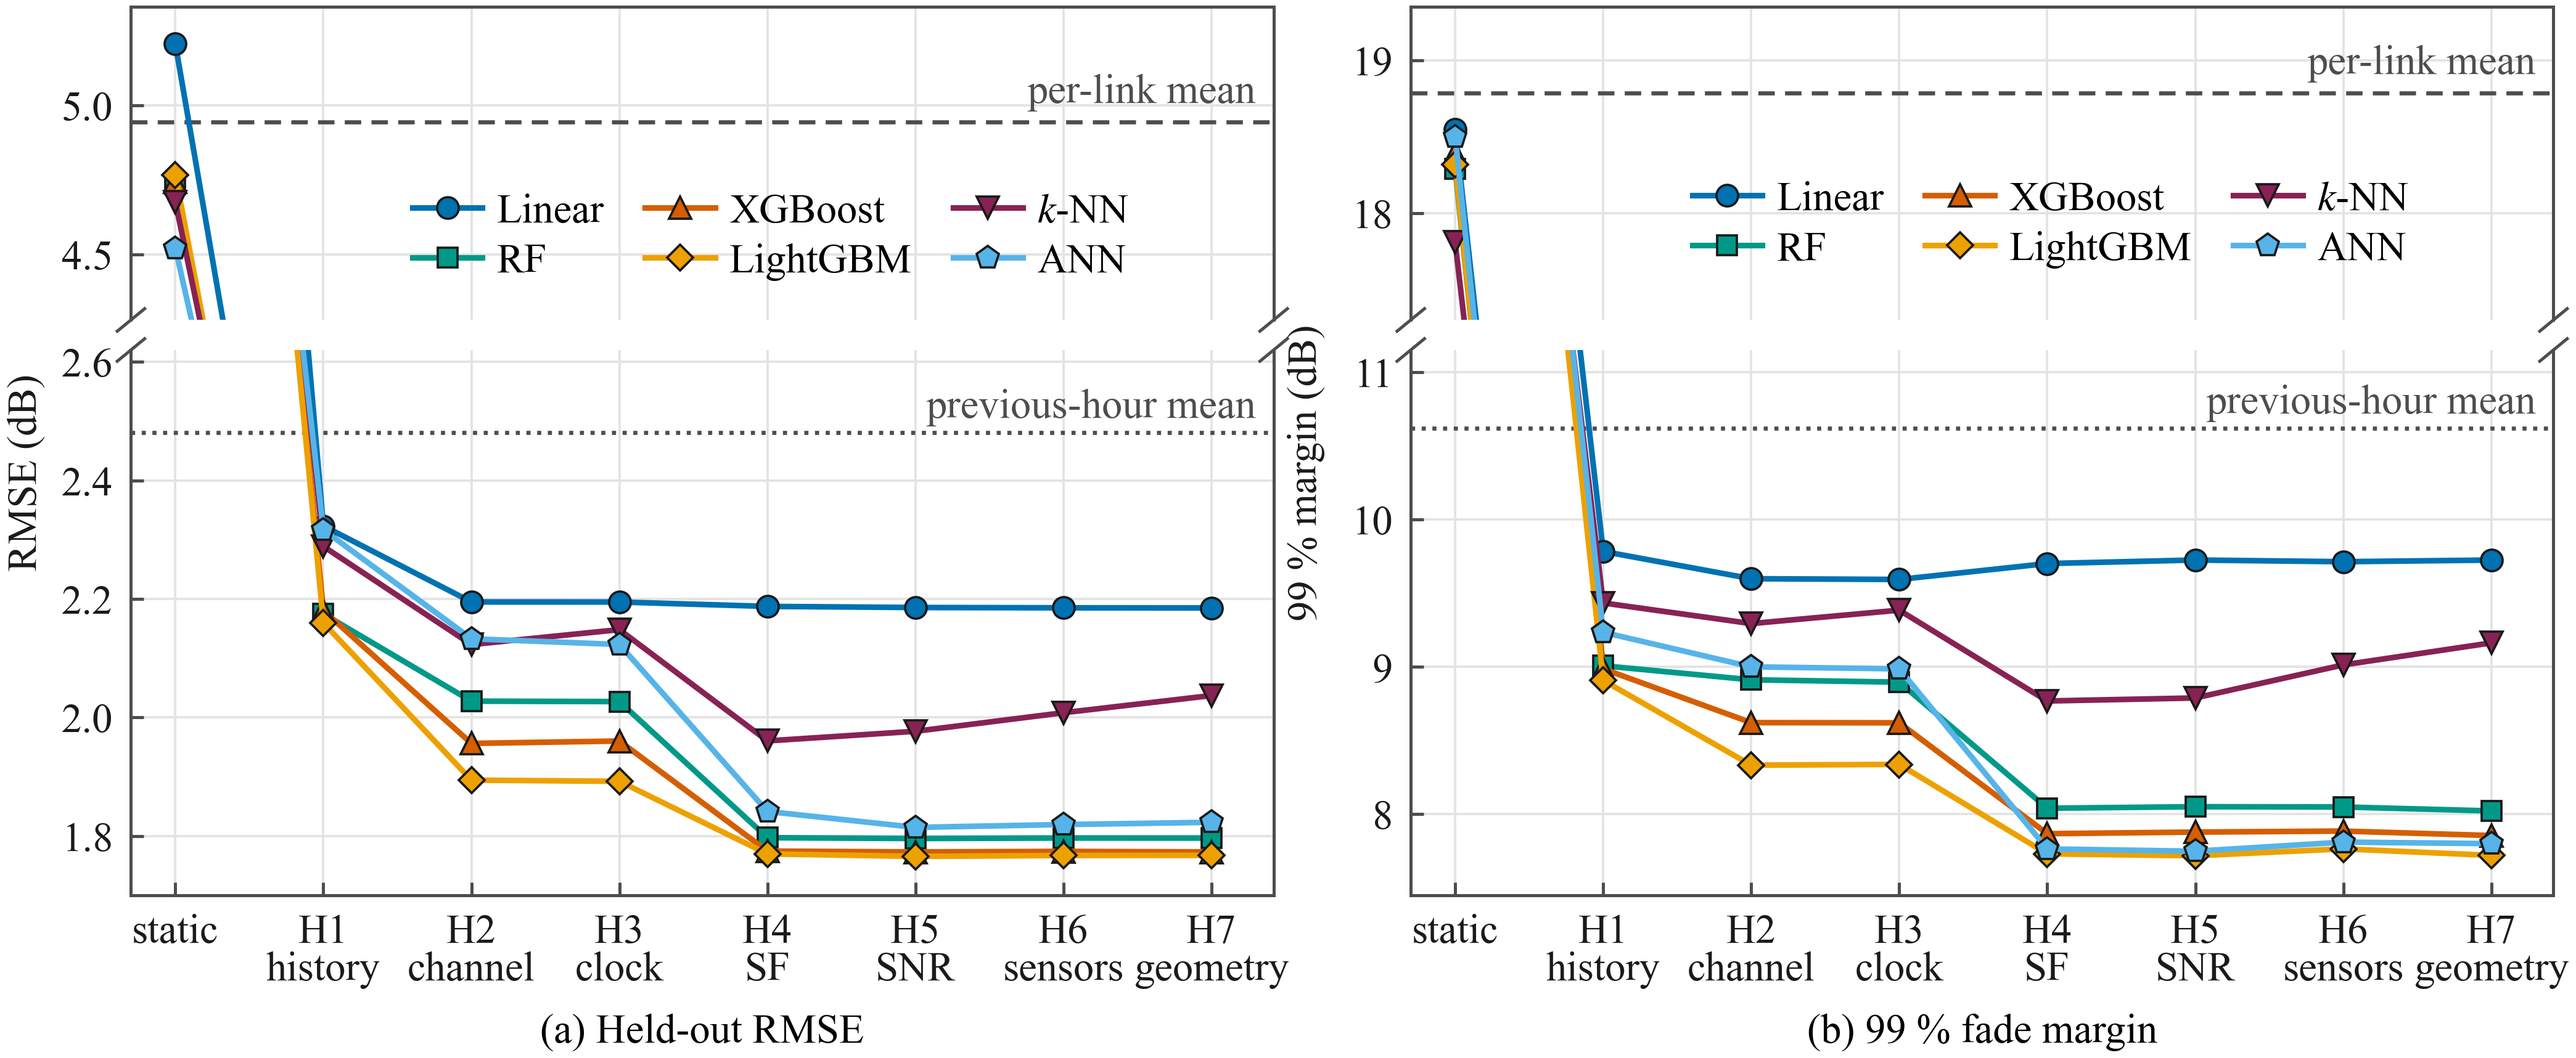
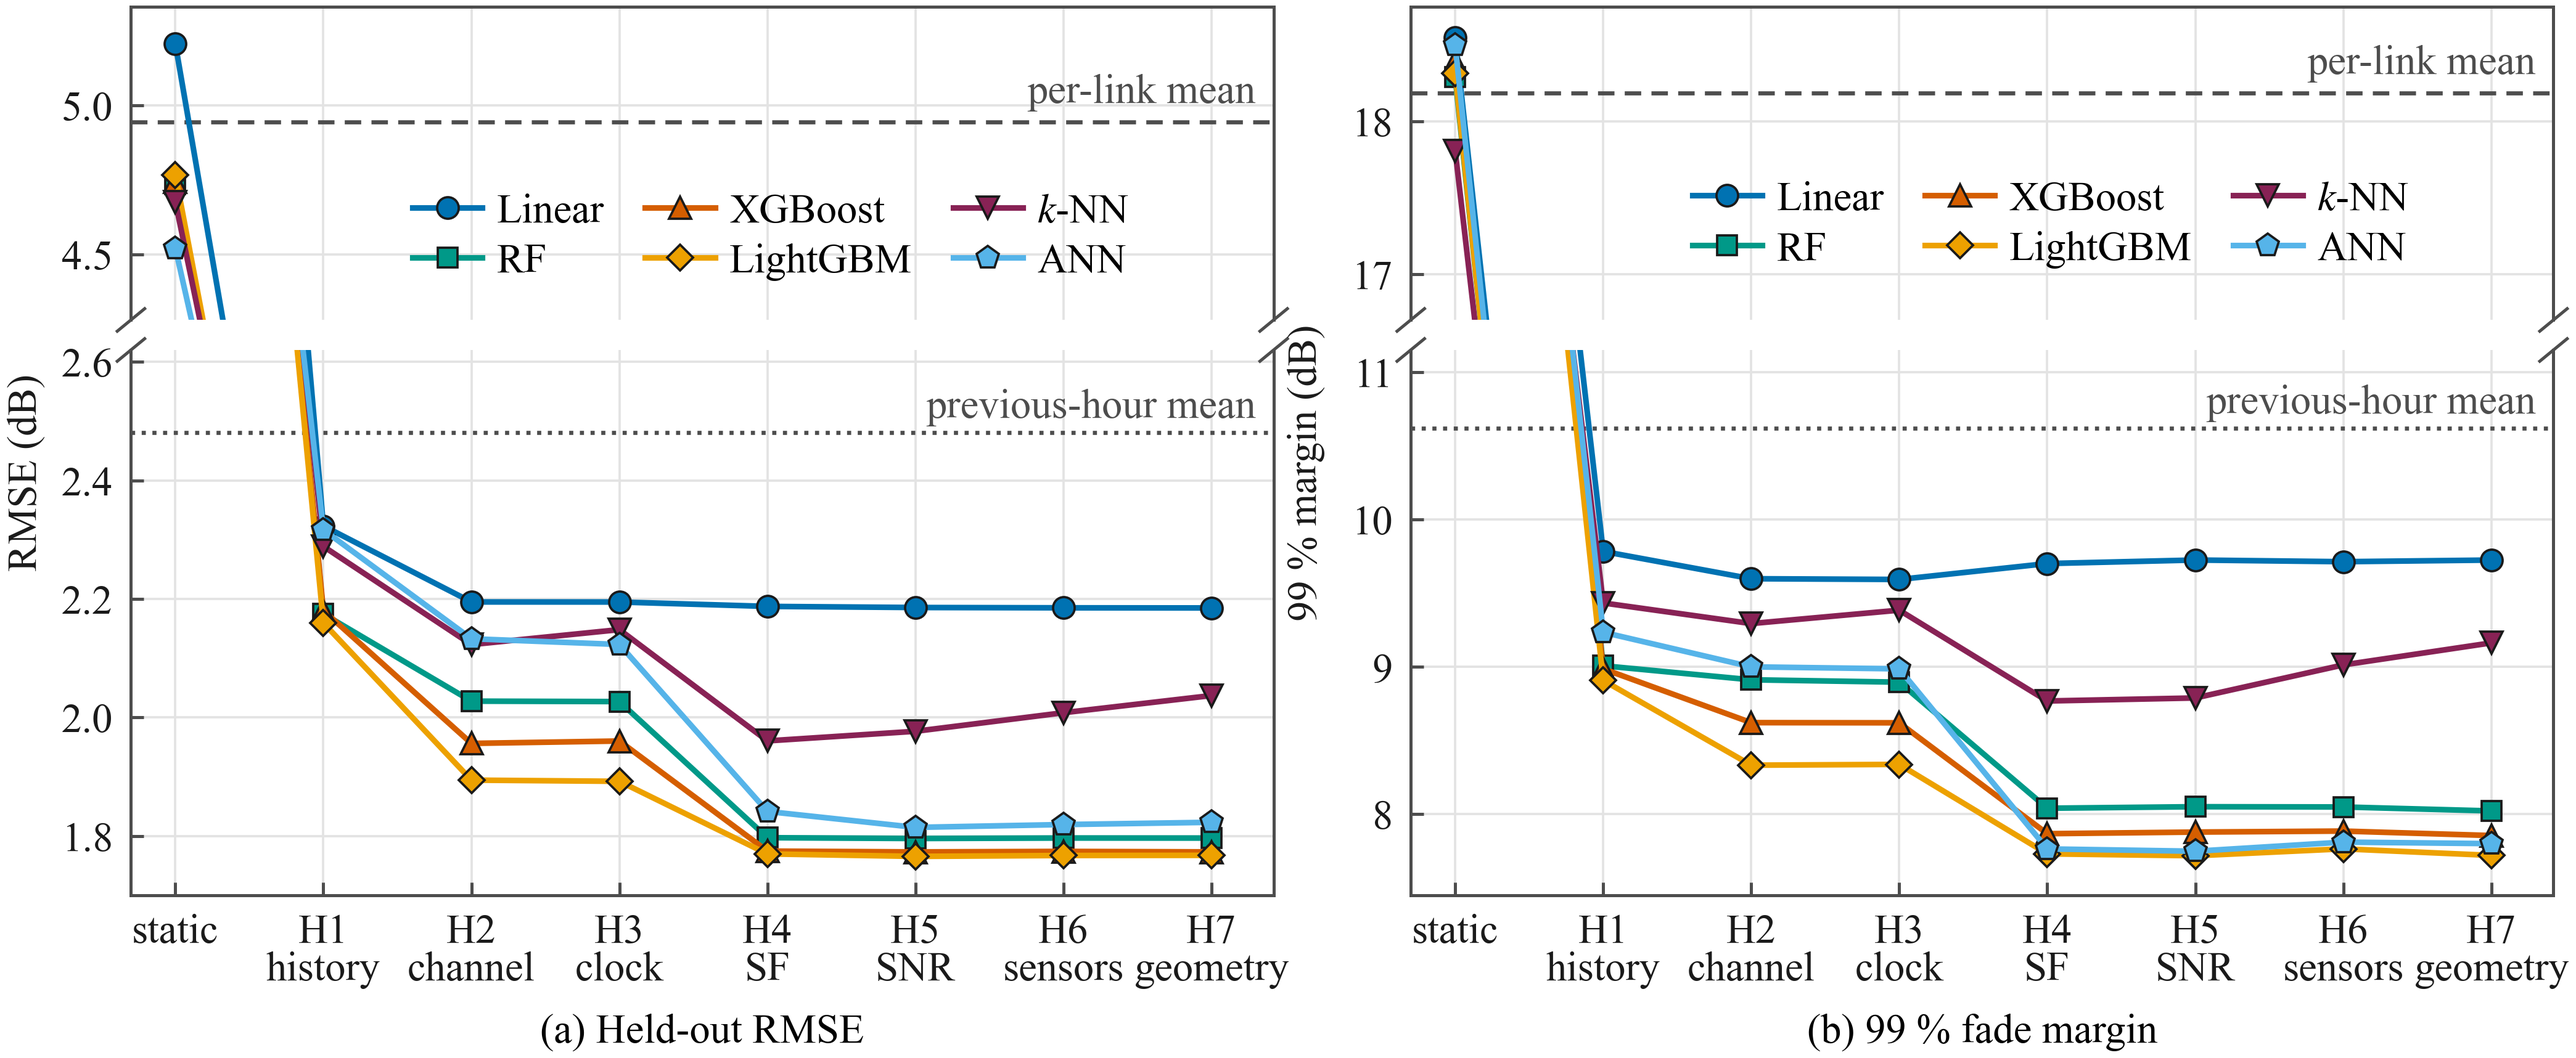
README: the held-out window serves only the final evaluation; the notebooks numbered by topic and run in the order of run_all.sh (about 50 h); run times of 03 and 04 from their printed searches, 15 and 23 with their new steps; fits of LightGBM and of the GPU models differ in the last digits; the res

Changed region(s): [[0.529, 0.0309, 0.5912, 0.3087]]

diff --git a/README.md b/README.md
@@ -7,7 +7,7 @@ How much fade margin an indoor LoRaWAN link needs, as a function of what its pre
 [![Python](https://img.shields.io/badge/Python-3.12-3776AB?logo=python&logoColor=white)](https://www.python.org/)
 [![Licence](https://img.shields.io/badge/licence-MIT-3DA639)](LICENSE)
 
-One year of measurements from six fixed links on one office floor: 2,660,274 uplinks, spreading factors 7 to 12, five environmental sensors at each device. Five propagation models and six machine learning families are fitted on static inputs, then on cumulative rungs of the link's own earlier packets, and evaluated on a later period. One chronological protocol throughout: the earliest 80 % of the packets train, five forward-chaining folds select, the latest 20 % are held out and used once. A fade margin is the empirical quantile of the out-of-fold residuals at the split-conformal level (`margin_tools.py`), scored on the hold-out by coverage within operating states, pinball loss and the clustering of the misses. The same procedure runs on two public datasets, the Medellín measurements of González-Palacio et al. and the campus metadata of the University of Virginia.
+One year of measurements from six fixed links on one office floor: 2,660,274 uplinks, spreading factors 7 to 12, five environmental sensors at each device. Five propagation models and six machine learning families are fitted on static inputs, then on cumulative rungs of the link's own earlier packets, and evaluated on a later period. One chronological protocol throughout: the earliest 80 % of the packets train, five forward-chaining folds select, the latest 20 % are held out for the final evaluation. A fade margin is the empirical quantile of the out-of-fold residuals at the split-conformal level (`margin_tools.py`), scored on the hold-out by coverage within operating states, pinball loss and the clustering of the misses. The same procedure runs on two public datasets, the Medellín measurements of González-Palacio et al. and the campus metadata of the University of Virginia.
 
 ![Hold-out RMSE and 99 % margin by rung and family](docs/assets/information-by-family.png)
 
@@ -20,7 +20,7 @@ git clone https://github.com/nahshonmokua/LoRaWAN-IndoorPathLossModeling-ML && c
 python3.12 -m venv .venv && source .venv/bin/activate && python -m pip install -r requirements.txt
 python -m ipykernel install --user --name lorawan-pathloss --display-name "Python (LoRaWAN path loss)"
 bash get_data.sh    # file 3 of the Zenodo record into Data_Files/, checked by md5
-bash run_all.sh     # the 24 notebooks in order, in place; about 40 h, notebooks 06 and 14 on the RAPIDS kernel
+bash run_all.sh     # the 24 notebooks in dependency order, in place; about 50 h, notebooks 06 and 14 on the RAPIDS kernel
 ```
 
 The result files of the reported runs are in `CV_Results/`, `FM_Results/` and `Shadow_Results/`, and the executed cells of every notebook show those runs, so the results can be read without running anything.
@@ -41,7 +41,7 @@ python -m ipykernel install --user --name lorawan-pathloss-rapids --display-name
 
 ## Pipeline
 
-The notebooks are numbered in run order and run from the repository root, by hand or through `run_all.sh`; each opens with a cell that states what it does and what it writes. `CV_Results/`, `FM_Results/` and `Shadow_Results/` hold the result files of the reported runs and are versioned; `Data_Files/`, `Models/`, `Residuals/`, `Figures/` and `Tables/` are written by the notebooks and are not.
+The notebooks are numbered by topic and run from the repository root, through `run_all.sh` or by hand in its order (09 after 13 and 14, whose residuals it reads); each opens with a cell that states what it does and what it writes. `CV_Results/`, `FM_Results/` and `Shadow_Results/` hold the result files of the reported runs and are versioned; `Data_Files/`, `Models/`, `Residuals/`, `Figures/` and `Tables/` are written by the notebooks and are not.
 
 | Stage | Notebooks | Writes |
 |---|---|---|
@@ -56,7 +56,7 @@ The notebooks are numbered in run order and run from the repository root, by han
 
 Shared code: `history_features.py` (the history inputs and the rungs), `margin_tools.py` (the calibrations), `residual_distribution.py` (mixtures with the number of components by cross-validation), `paper_figures.py` (the figure style).
 
-Wall-clock on 32 cores, 60 GB of RAM and one RTX 5090: 03 about 5 h, 06 21.5 h, 07 3.3 h, 09 3.5 h, 13 6.4 h, 15 71 min; the other notebooks take minutes.
+Wall-clock on 32 cores, 60 GB of RAM and one RTX 5090: 03 7.5 h, 04 65 min, 06 21.5 h, 07 3.3 h, 09 3.5 h, 13 6.4 h, 15 about 1.5 h, 23 about 1 h; the other notebooks take minutes. Fits of LightGBM, and of XGBoost and k-NN on the GPU, differ in the last digits between runs.
 
 ## Results
 
@@ -64,18 +64,20 @@ Hold-out window 21 July to 30 September 2025, 532,055 packets; RMSE and the 99 %
 
 | Model | Inputs | Held-out RMSE | 99 % margin | Source |
 |---|---|---|---|---|
-| Per-link mean | none | 4.94 | 18.2 | `CV_Results/static_feature_groups.csv` |
-| COST 231 multi-wall, calibrated | geometry, channel | 6.37 | 18.3 | `Residuals/residuals_PLM_COST231_MWM_*.csv` |
-| Lasso | geometry, channel, sensors | 5.21 | 18.5 | `Residuals/residuals_MLR_*.csv` |
-| Random forest | geometry, channel, sensors | 4.74 | 18.3 | `Residuals/residuals_RF_*.csv` |
-| XGBoost | geometry, channel, sensors | 4.74 | 18.4 | `Residuals/residuals_XGB_*.csv` |
-| LightGBM | geometry, channel, sensors | 4.77 | 18.3 | `Residuals/residuals_LGBM_*.csv` |
-| k-nearest neighbours | geometry, channel, sensors | 4.68 | 17.8 | `Residuals/residuals_KNN_*.csv` |
-| ANN | geometry, channel, sensors | 4.52 | 18.5 | `Residuals/residuals_ANN_*.csv` |
+| Per-link mean | none | 4.94 | 18.2 | `CV_Results/per_link_mean.csv` |
+| COST 231 multi-wall, calibrated | geometry, channel | 6.37 | 18.3 | `CV_Results/bootstrap_test_comparison.csv`, `residual_quantiles.csv` |
+| Lasso | geometry, channel, sensors | 5.21 | 18.5 | as above |
+| Random forest | geometry, channel, sensors | 4.74 | 18.3 | as above |
+| XGBoost | geometry, channel, sensors | 4.74 | 18.4 | as above |
+| LightGBM | geometry, channel, sensors | 4.77 | 18.3 | as above |
+| k-nearest neighbours | geometry, channel, sensors | 4.68 | 17.8 | as above |
+| ANN | geometry, channel, sensors | 4.52 | 18.5 | as above |
 | Previous-hour mean | the link's earlier packets | 2.48 | 10.6 | `CV_Results/history_benchmark.csv` |
 | LightGBM, rung H1 | link history | 2.16 | 8.9 | `CV_Results/information_by_family.csv` |
 | LightGBM, rung H4 | + same-channel history, clock, spreading factor | 1.77 | 7.7 | `CV_Results/information_by_family.csv` |
 | LightGBM, rung H7 | + earlier SNR, sensors, link level, geometry | 1.77 | 7.7 | `CV_Results/information_by_family.csv` |
+
+On the held-out window, a margin that follows the operating state of the link averages 3.8 to 4.0 dB and covers at least 98.5 % of every state (`CV_Results/margin_headline.csv`); the reference rule of adaptive data rate in path loss form, the best of the last 20 packets at the same spreading factor plus 10 dB, covers 98.3 % (`CV_Results/adr_reference_rule.csv`).
 
 Every family on every rung is in `CV_Results/information_by_family.csv`; the paired intervals of the static models in `CV_Results/bootstrap_test_comparison.csv`; the margins by operating state and the estimators of adaptive data rate schemes in the result files of notebooks 16 and 17; the input groups with intervals in `CV_Results/static_feature_groups.csv` and `history_group_steps.csv`; the public datasets in `CV_Results/medellin_ladder.csv` and `uva_ladder.csv`.
 
